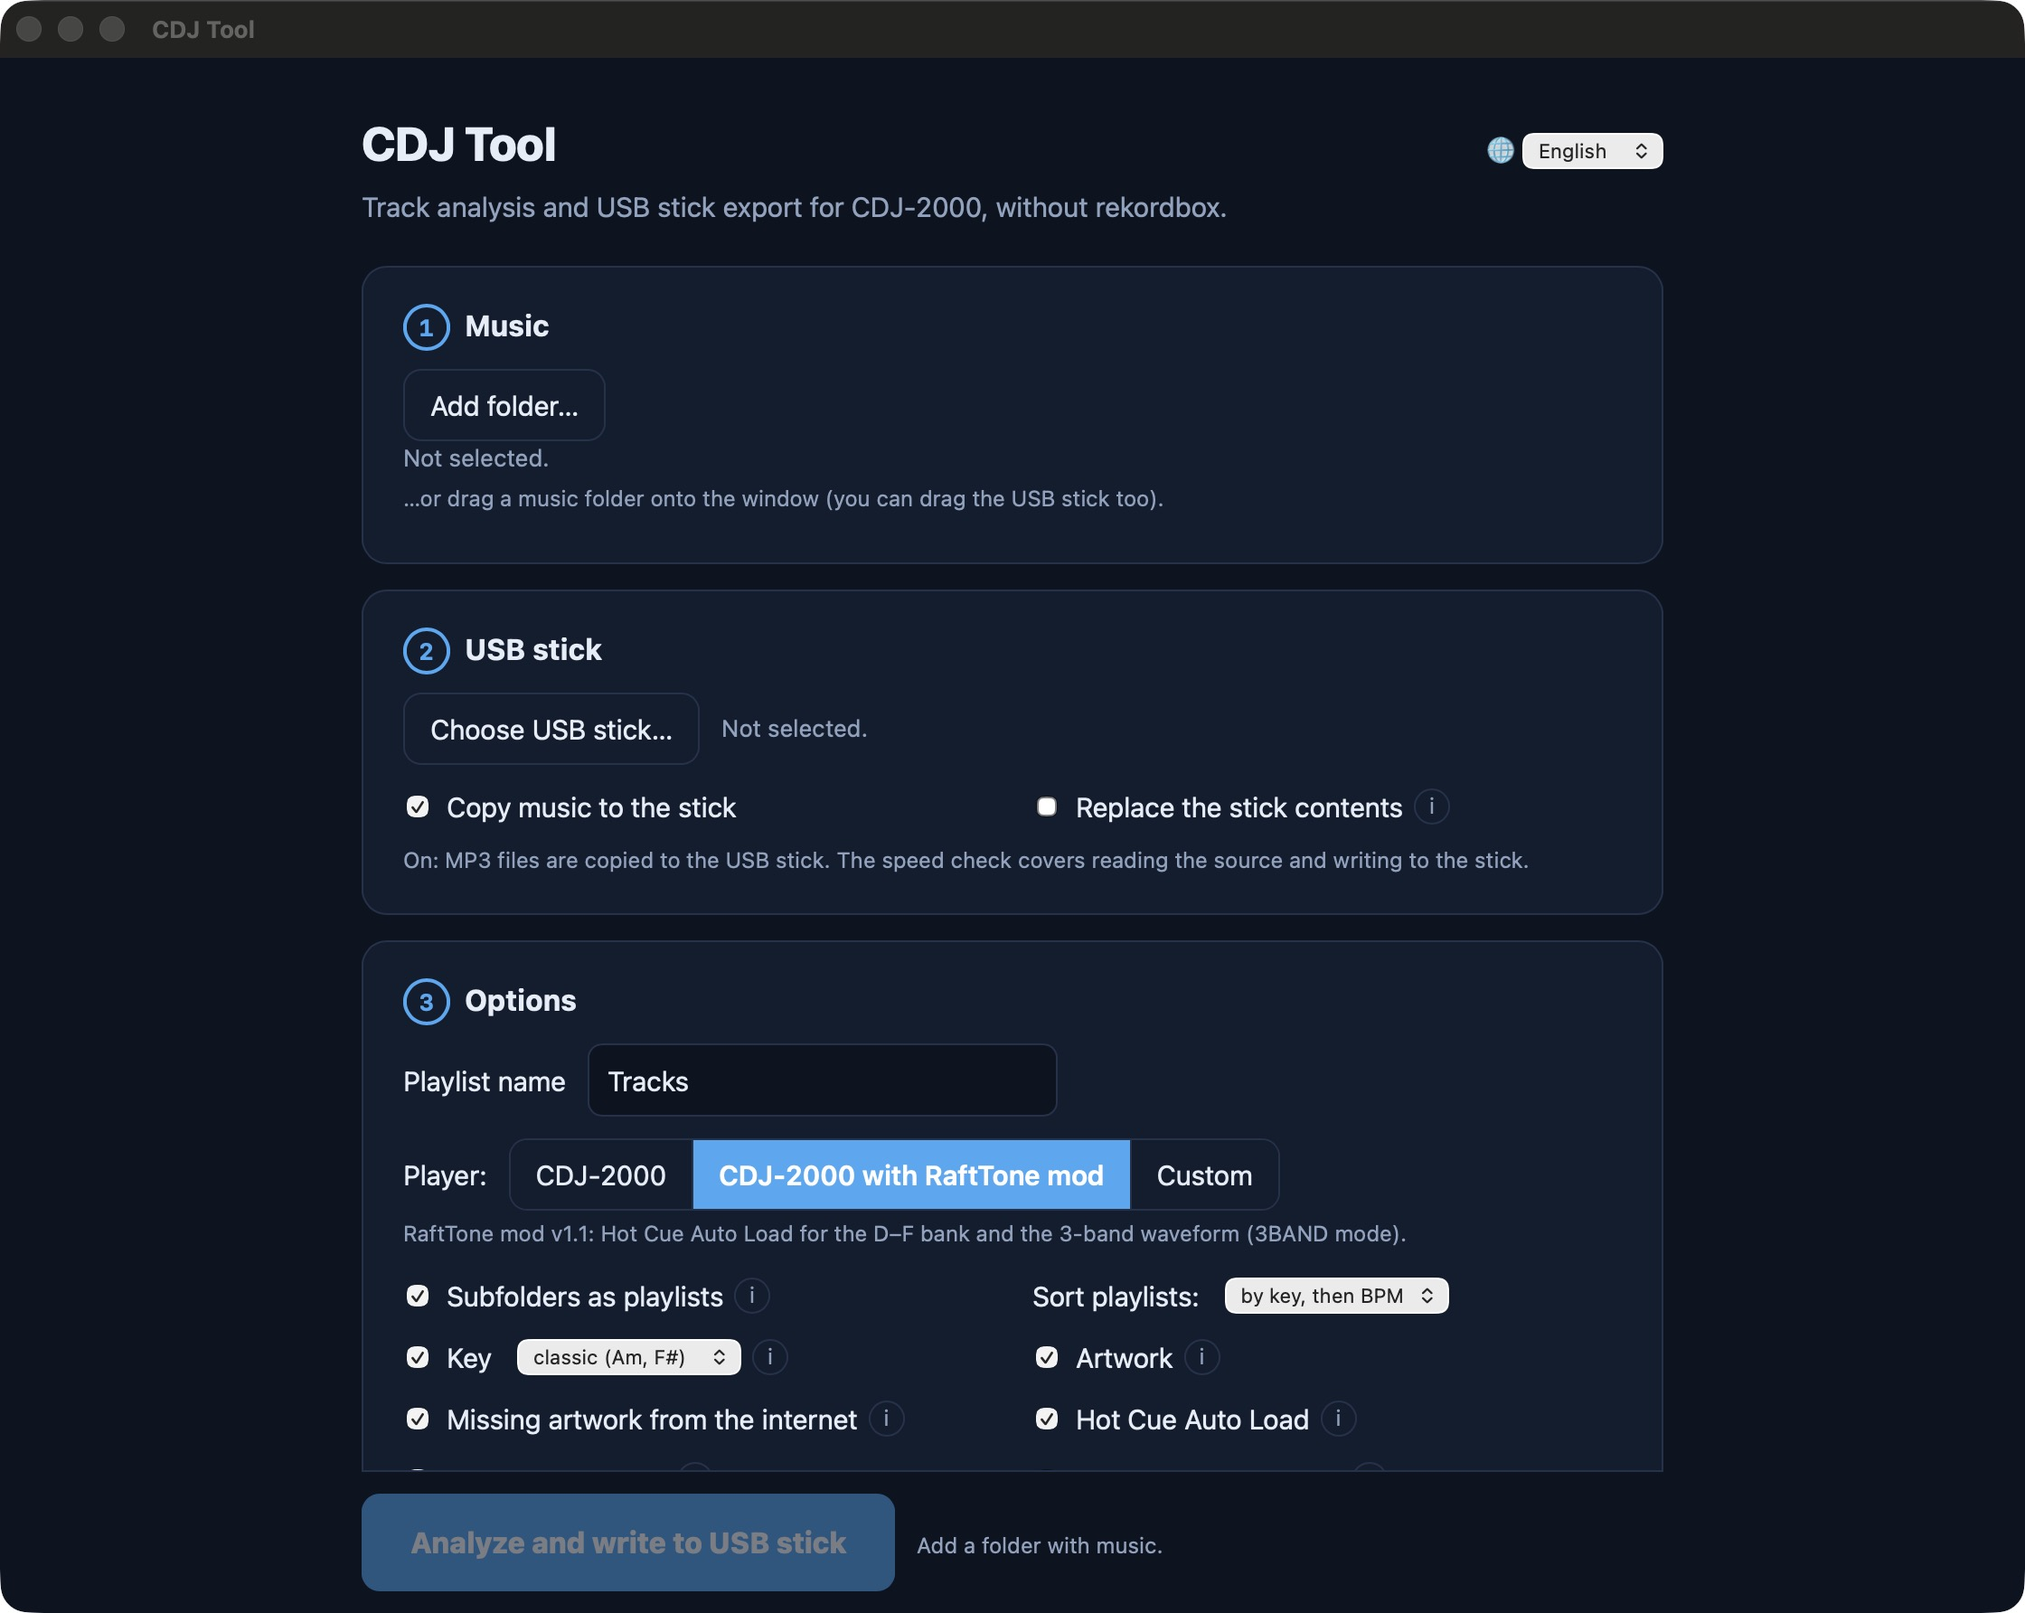
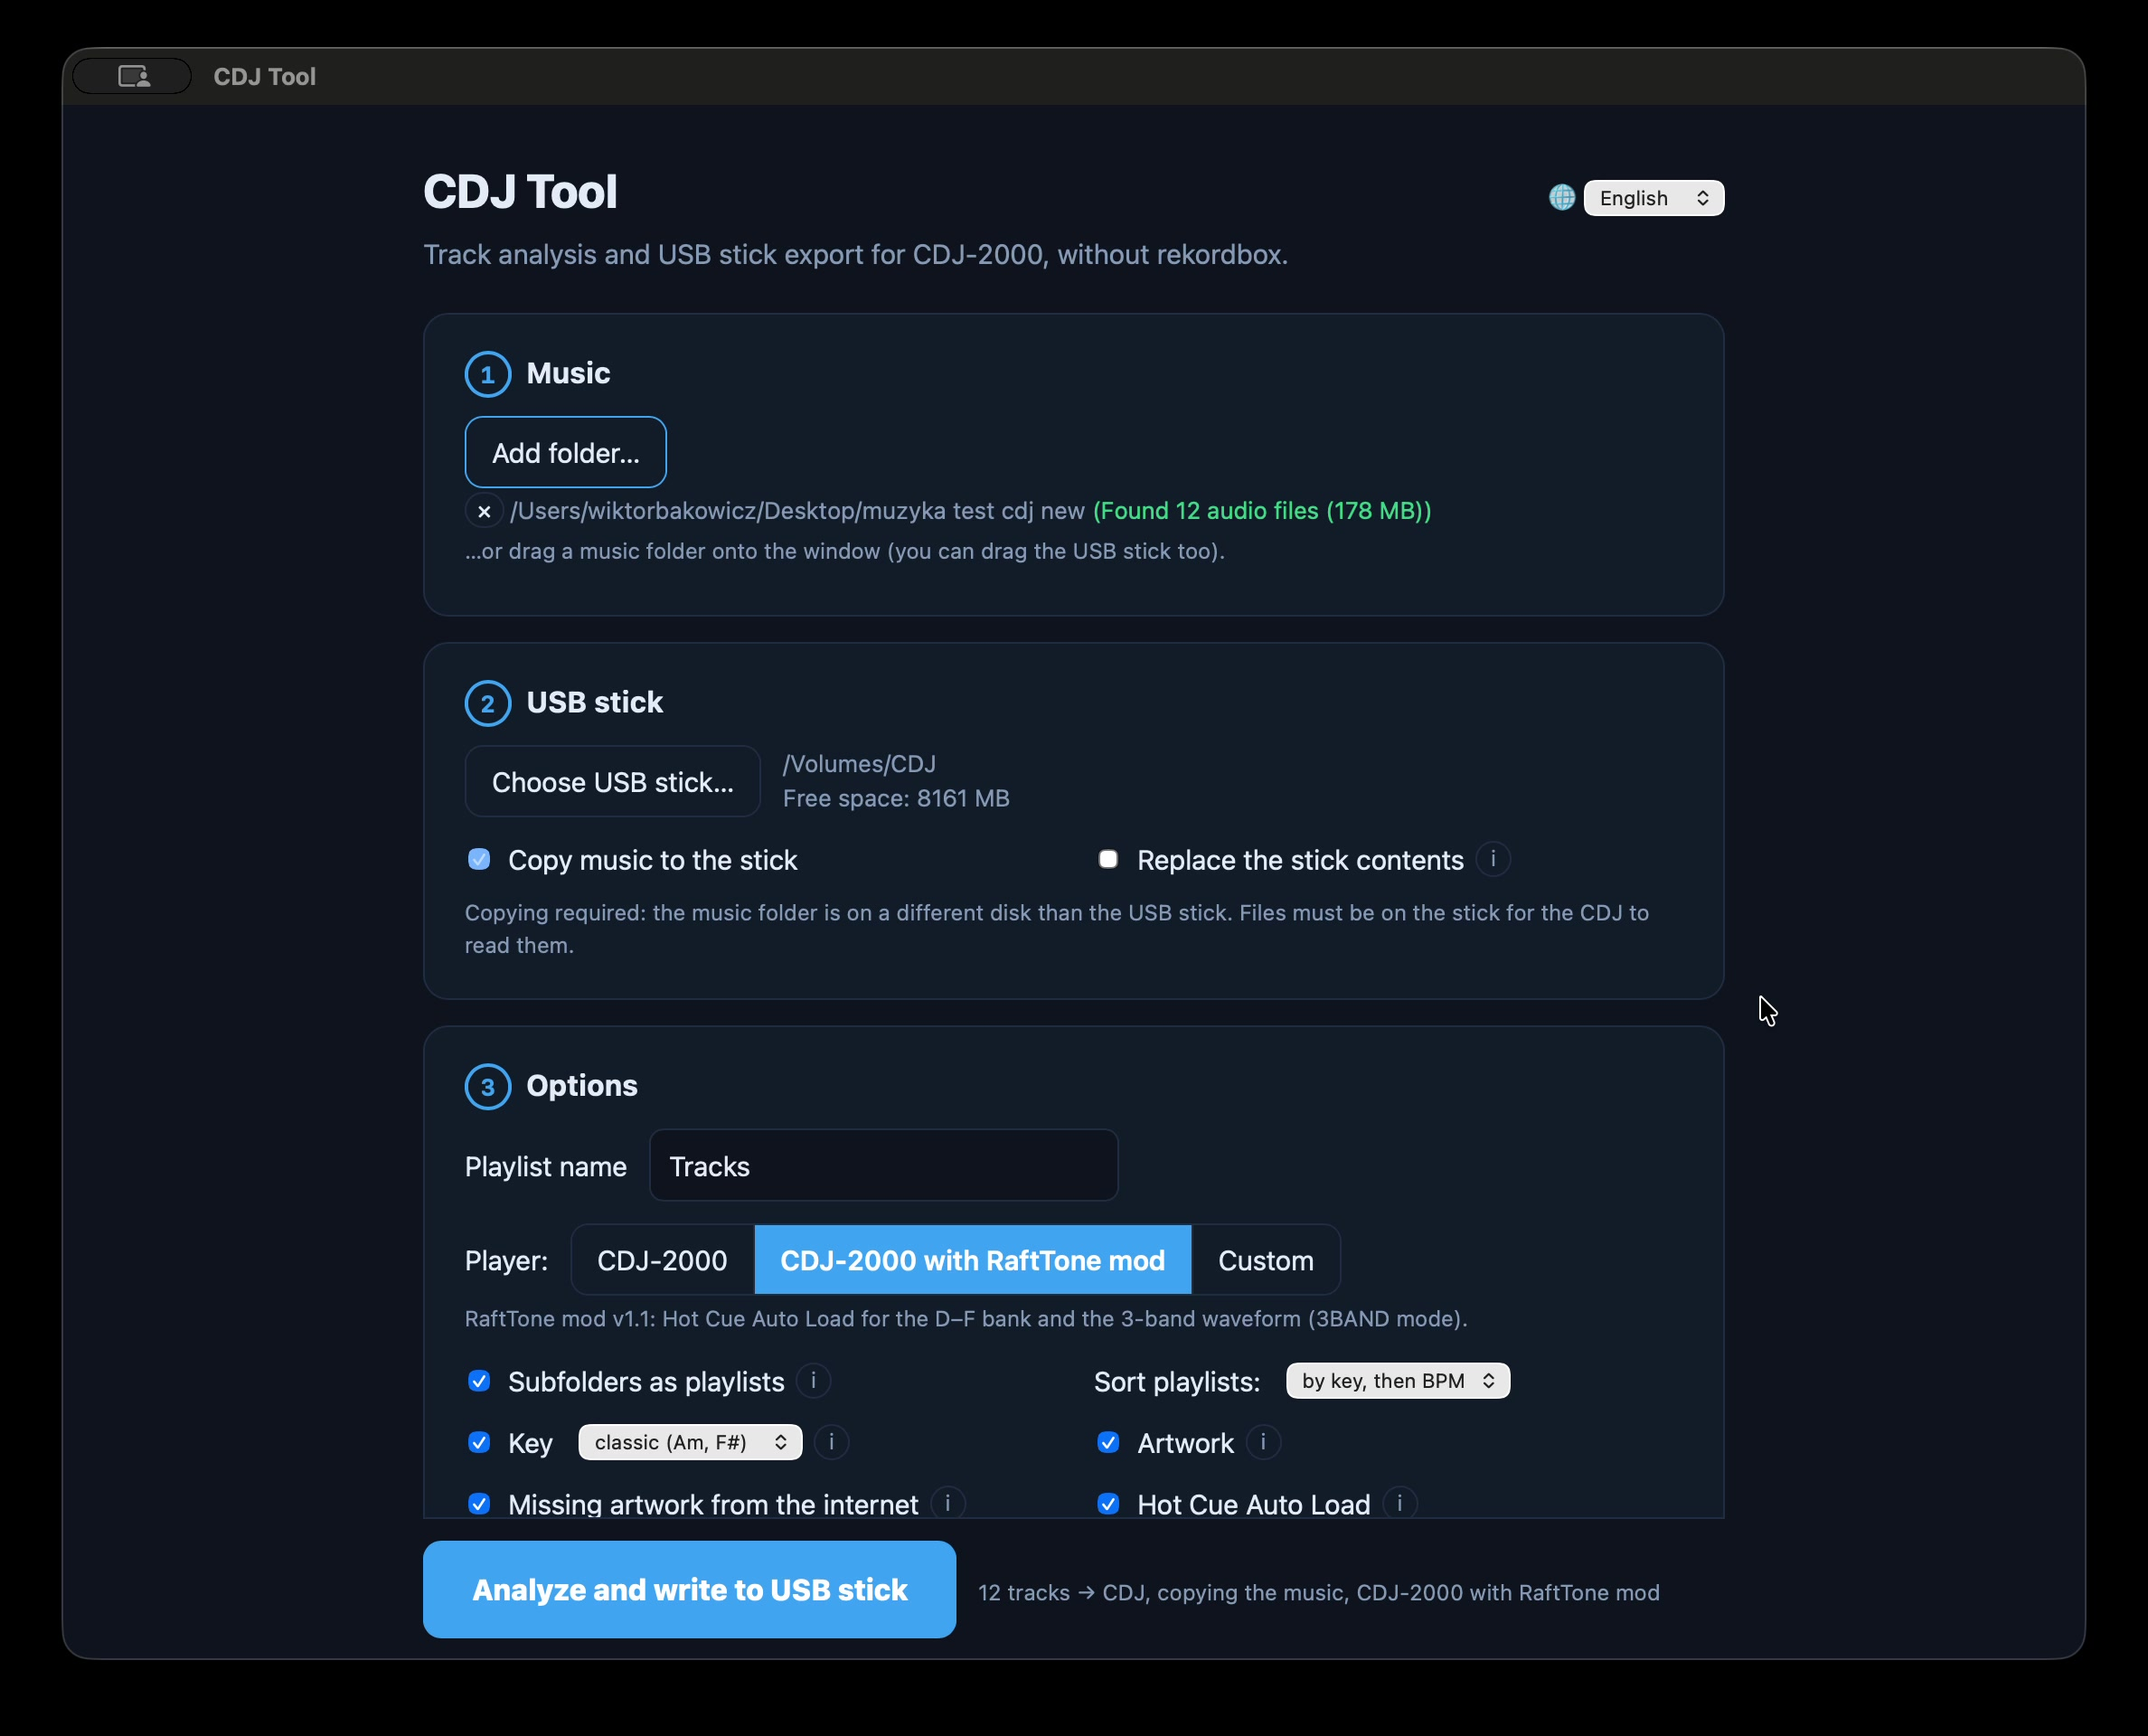
Docs: new 1.1.0 screenshots; translate playlist log lines, skip empty rule rows, en dash in file names
Claude-Session: https://claude.ai/code/session_017ioKvzt6voYUdVJ6Vq84ae

diff --git a/src/cdjtool/ui.html b/src/cdjtool/ui.html
@@ -792,6 +792,8 @@ const KOM_UTWOR = [
  [/tytuł/g, {en:"title", de:"Titel", fr:"titre", es:"título", it:"titolo"}],
  [/⚠ uszkodzony plik \(błędy dekodowania: (\d+)\), może zacinać się na CDJ/g, {en:"⚠ damaged file (decoding errors: $1), may stutter on the CDJ", de:"⚠ beschädigte Datei (Dekodierfehler: $1), kann auf dem CDJ stottern", fr:"⚠ fichier endommagé (erreurs de décodage : $1), peut saccader sur le CDJ", es:"⚠ archivo dañado (errores de decodificación: $1), puede entrecortarse en el CDJ", it:"⚠ file danneggiato (errori di decodifica: $1), può andare a scatti sul CDJ"}],
  [/z pamięci podręcznej/g, {en:"from cache", de:"aus dem Cache", fr:"depuis le cache", es:"de la caché", it:"dalla cache"}],
+ [/^Playlista „(.+)”: (\d+) utworów\.$/, {en:"Playlist “{1}”: {2} tracks.", de:"Playlist „{1}“: {2} Titel.", fr:"Playlist « {1} » : {2} morceaux.", es:"Lista «{1}»: {2} pistas.", it:"Playlist «{1}»: {2} brani."}, "nazwy"],
+ [/^Playlista „(.+)” \(od: (.+)\): (\d+) utworów\.$/, {en:"Playlist “{1}” (from: {2}): {3} tracks.", de:"Playlist „{1}“ (von: {2}): {3} Titel.", fr:"Playlist « {1} » (depuis : {2}) : {3} morceaux.", es:"Lista «{1}» (de: {2}): {3} pistas.", it:"Playlist «{1}» (da: {2}): {3} brani."}, "nazwy"],
  [/zmienne tempo: /g, {en:"variable tempo: ", de:"variables Tempo: ", fr:"tempo variable : ", es:"tempo variable: ", it:"tempo variabile: "}],
  [/długi utwór, (\d+) odcinków/g, {en:"long track, $1 sections", de:"langer Titel, $1 Abschnitte", fr:"morceau long, $1 sections", es:"pista larga, $1 secciones", it:"brano lungo, $1 sezioni"}],
 ];
@@ -1323,7 +1325,8 @@ function paramyPlaylist() {
   const dataOd = $("fDataOd").value ? Math.floor(new Date($("fDataOd").value + "T00:00:00").getTime() / 1000) : null;
   const filtr = { gatunek: $("fGatunek").value.trim(), bpm_min: liczbaLubNull($("fBpmMin").value), bpm_max: liczbaLubNull($("fBpmMax").value), data_od: dataOd };
   const pusty = !filtr.gatunek && filtr.bpm_min == null && filtr.bpm_max == null && !filtr.data_od;
-  return { inteligentne_playlisty: zbierzReguly().map(r => { delete r.tonacja_txt; return r; }),
+  const pustaRegula = r => !r.nazwa.trim() && r.bpm_min == null && r.bpm_max == null && !r.tonacja && !r.gatunek.trim() && !r.artysta.trim() && !r.komentarz.trim();
+  return { inteligentne_playlisty: zbierzReguly().filter(r => !pustaRegula(r)).map(r => { delete r.tonacja_txt; return r; }),
     podobne: szukaj ? { szukaj, procent: Number($("pProcent").value) || 3, nazwa: t("plPodobne").split(" (")[0] } : null,
     filtr: pusty ? null : filtr };
 }

diff --git a/src/cdjtool/okladki.py b/src/cdjtool/okladki.py
@@ -348,6 +348,7 @@ def z_nazwy_pliku(nazwa):
     """(wykonawca, tytul) z nazwy pliku w stylu "12. Artist - Title (Mix).mp3"; None gdy nie pasuje."""
     # "_" w nazwach plikow zastepuje znaki niedozwolone (":" , "/"): "ft. Kali_ Marta" -> "ft. Kali, Marta"
     n = os.path.splitext(os.path.basename(nazwa))[0].replace("_ ", ", ").replace("_", " ")
+    n = re.sub(r"\s[\u2013\u2014]\s", " - ", n)  # "Artysta – Tytul" (polpauza / pauza) jak zwykly myslnik
     n = re.sub(r"^\s*\d{1,3}\s*[\.\-\)]?\s+", "", n)
     if " - " not in n:
         return None
